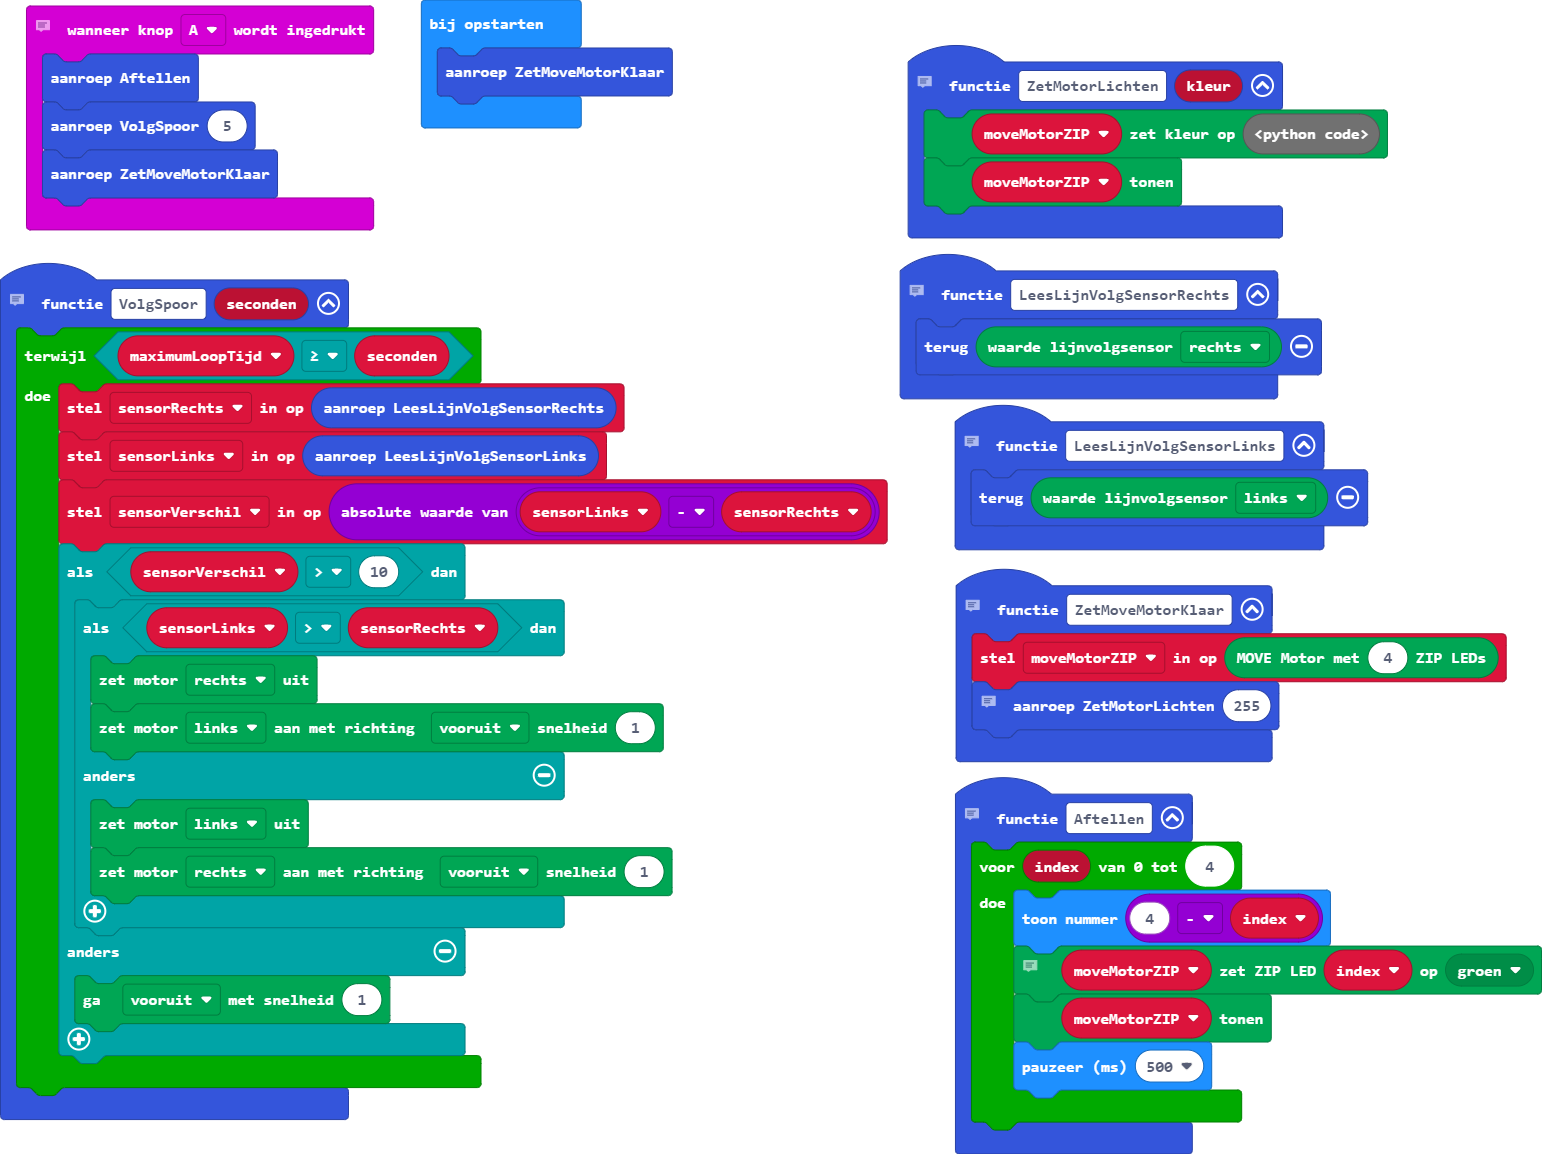
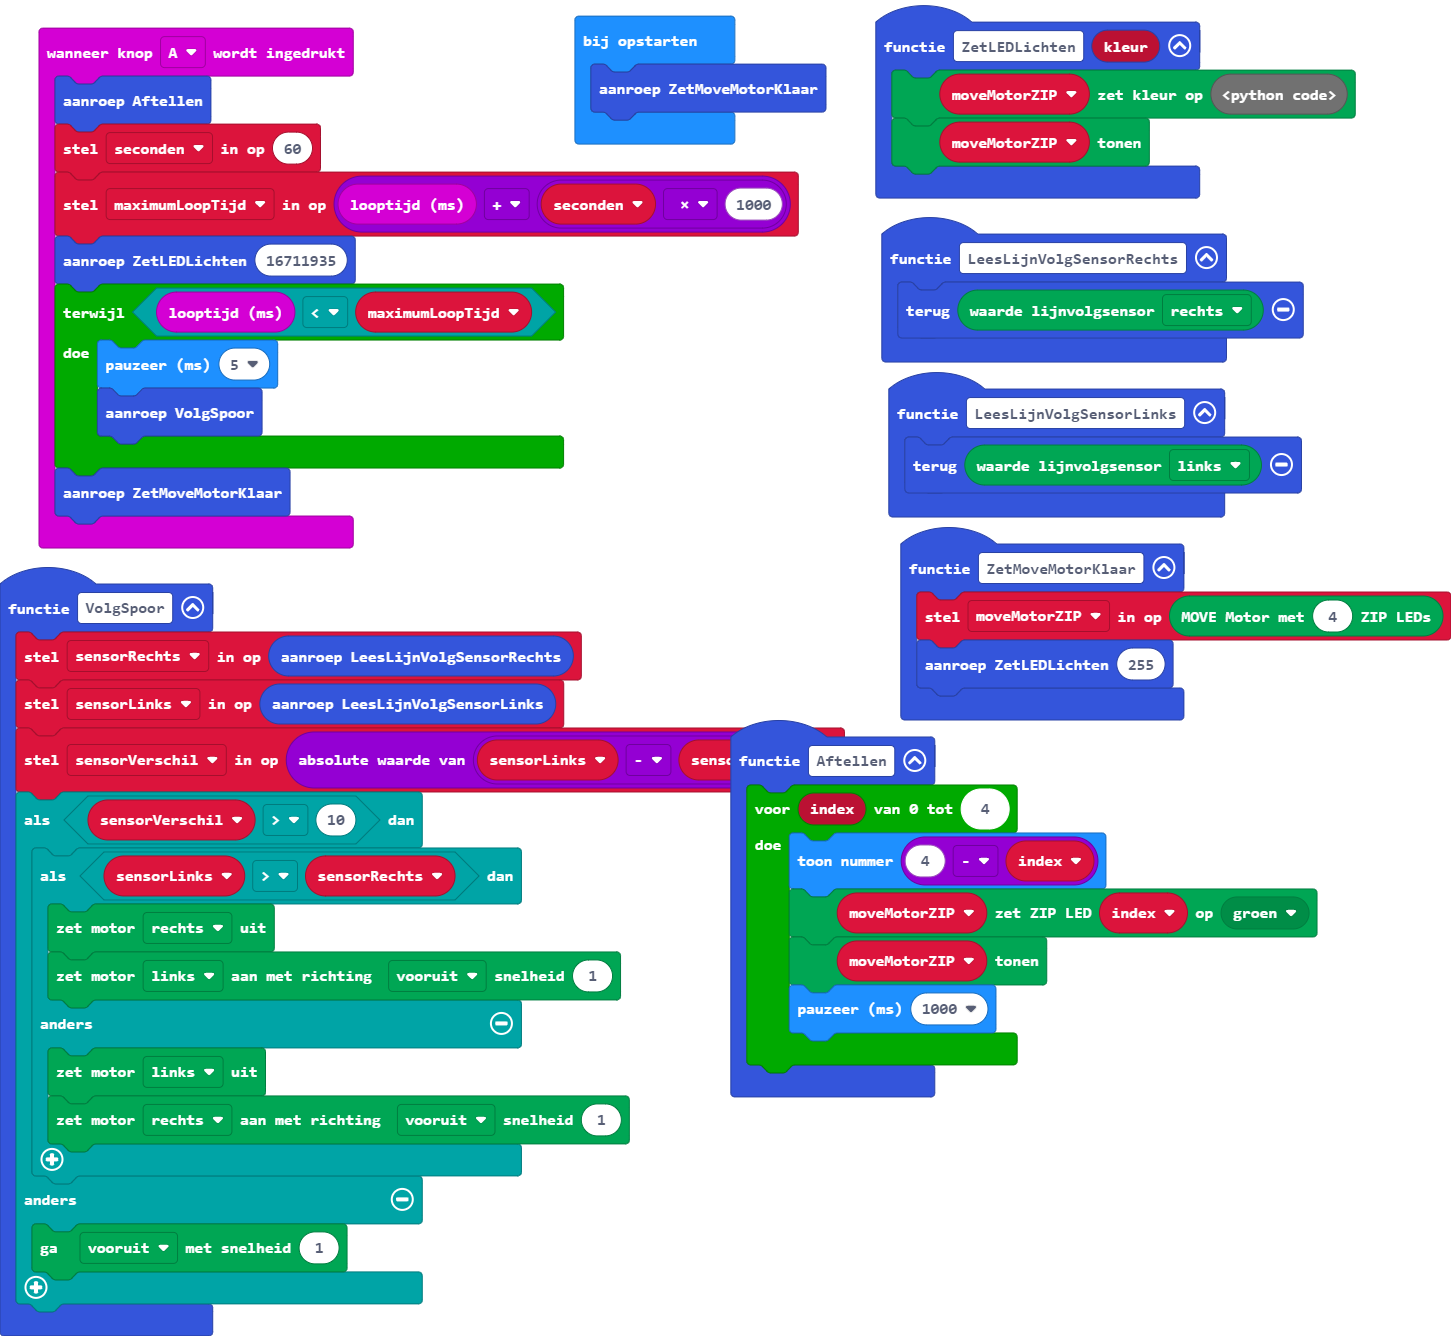
Oefening afgewerkt

diff --git a/main.ts b/main.ts
@@ -1,60 +1,56 @@
-// Tel van 4 tot 0 en verander telkens 1 LED van kleur.
 function Aftellen () {
     for (let index = 0; index <= 4; index++) {
         basic.showNumber(4 - index)
-        // Kitronik_Move_Motor.ZipLedColors.GREEN = 65280
         moveMotorZIP.setZipLedColor(index, Kitronik_Move_Motor.colors(Kitronik_Move_Motor.ZipLedColors.Green))
         moveMotorZIP.show()
-        basic.pause(500)
+        basic.pause(1000)
     }
 }
-// Waneer op knop A gedrukt word tel af en volg het spoor geduurende 10 seconden.
 input.onButtonPressed(Button.A, function () {
     Aftellen()
-    VolgSpoor(5)
+    seconden = 60
+    maximumLoopTijd = input.runningTime() + seconden * 1000
+    ZetLEDLichten(16711935)
+    while (input.runningTime() < maximumLoopTijd) {
+        basic.pause(5)
+        VolgSpoor()
+    }
     ZetMoveMotorKlaar()
 })
-// Lees de waarde van de rechter lijnvolgsensor. Deze kan tussen de 0 en de 1023 liggen.
 function LeesLijnVolgSensorRechts () {
     return Kitronik_Move_Motor.readSensor(Kitronik_Move_Motor.LfSensor.Right)
 }
-// De functie om het spoor te volgen.
-function VolgSpoor (seconden: number) {
-    let maximumLoopTijd = 0
-    while (maximumLoopTijd >= seconden) {
-        sensorRechts = LeesLijnVolgSensorRechts()
-        sensorLinks = LeesLijnVolgSensorLinks()
-        sensorVerschil = Math.abs(sensorLinks - sensorRechts)
-        if (sensorVerschil > 10) {
-            if (sensorLinks > sensorRechts) {
-                Kitronik_Move_Motor.motorOff(Kitronik_Move_Motor.Motors.MotorRight)
-                Kitronik_Move_Motor.motorOn(Kitronik_Move_Motor.Motors.MotorLeft, Kitronik_Move_Motor.MotorDirection.Forward, 1)
-            } else {
-                Kitronik_Move_Motor.motorOff(Kitronik_Move_Motor.Motors.MotorLeft)
-                Kitronik_Move_Motor.motorOn(Kitronik_Move_Motor.Motors.MotorRight, Kitronik_Move_Motor.MotorDirection.Forward, 1)
-            }
+function VolgSpoor () {
+    sensorRechts = LeesLijnVolgSensorRechts()
+    sensorLinks = LeesLijnVolgSensorLinks()
+    sensorVerschil = Math.abs(sensorLinks - sensorRechts)
+    if (sensorVerschil > 10) {
+        if (sensorLinks > sensorRechts) {
+            Kitronik_Move_Motor.motorOff(Kitronik_Move_Motor.Motors.MotorRight)
+            Kitronik_Move_Motor.motorOn(Kitronik_Move_Motor.Motors.MotorLeft, Kitronik_Move_Motor.MotorDirection.Forward, 1)
         } else {
-            Kitronik_Move_Motor.move(Kitronik_Move_Motor.DriveDirections.Forward, 1)
+            Kitronik_Move_Motor.motorOff(Kitronik_Move_Motor.Motors.MotorLeft)
+            Kitronik_Move_Motor.motorOn(Kitronik_Move_Motor.Motors.MotorRight, Kitronik_Move_Motor.MotorDirection.Forward, 1)
         }
+    } else {
+        Kitronik_Move_Motor.move(Kitronik_Move_Motor.DriveDirections.Forward, 1)
     }
 }
-// Zet de :Move motor klaar voor hij de lijn zal volgen.
 function ZetMoveMotorKlaar () {
     moveMotorZIP = Kitronik_Move_Motor.createMoveMotorZIPLED(4)
-    // Kitronik_Move_Motor.ZipLedColors.BLUE = 255
-    ZetMotorLichten(255)
+    ZetLEDLichten(255)
 }
-// Zet de LEDs op een andere kleur. De waarden kan je terugvinden op: https://github.com/KitronikLtd/pxt-kitronik-zip-64/blob/master/zip64.ts.
-function ZetMotorLichten (kleur: number) {
+function ZetLEDLichten (kleur: number) {
     moveMotorZIP.setColor(Kitronik_Move_Motor.colors(kleur))
     moveMotorZIP.show()
 }
-// Lees de waarde van de linker lijnvolgsensor. Deze kan tussen de 0 en de 1023 liggen.
 function LeesLijnVolgSensorLinks () {
     return Kitronik_Move_Motor.readSensor(Kitronik_Move_Motor.LfSensor.Left)
 }
 let sensorVerschil = 0
 let sensorLinks = 0
 let sensorRechts = 0
+let maximumLoopTijd = 0
+let seconden = 0
 let moveMotorZIP: Kitronik_Move_Motor.MoveMotorZIP = null
 ZetMoveMotorKlaar()

diff --git a/main.py b/main.py
@@ -1,66 +1,50 @@
-# Tel van 4 tot 0 en verander telkens 1 LED van kleur.
 def Aftellen():
     for index in range(5):
-        # Kitronik_Move_Motor.ZipLedColors.GREEN = 65280
+        basic.show_number(4 - index)
         moveMotorZIP.set_zip_led_color(index,
             Kitronik_Move_Motor.colors(Kitronik_Move_Motor.ZipLedColors.GREEN))
         moveMotorZIP.show()
         basic.pause(1000)
-# Waneer op knop A gedrukt word tel af en volg het spoor geduurende 10 seconden.
 
 def on_button_pressed_a():
     Aftellen()
-    VolgSpoor(10)
-    ZetMotorKlaar()
+    VolgSpoor(25)
 input.on_button_pressed(Button.A, on_button_pressed_a)
 
-# Zet de :Move motor klaar voor hij de lijn zal volgen.
-def ZetMotorKlaar():
-    global moveMotorZIP
-    moveMotorZIP = Kitronik_Move_Motor.create_move_motor_zipled(4)
-    # Kitronik_Move_Motor.ZipLedColors.BLUE = 255
-    ZetMotorLichten(255)
-    Kitronik_Move_Motor.stop()
-# Bereken het verschil tussen de linkse en rechtse sensor.
-def BerekenSensorVerschil():
-    global sensorRechts, sensorLinks, sensorVerschil
-    sensorRechts = LeesLijnVolgSensorRechts()
-    sensorLinks = LeesLijnVolgSensorLinks()
-    sensorVerschil = abs(sensorRechts - sensorLinks)
-    return sensorVerschil
-# Lees de waarde van de rechter lijnvolgsensor. Deze kan tussen de 0 en de 1023 liggen.
 def LeesLijnVolgSensorRechts():
     return Kitronik_Move_Motor.read_sensor(Kitronik_Move_Motor.LfSensor.RIGHT)
-# De functie om het spoor te volgen.
 def VolgSpoor(seconden: number):
-    global VolgSpoorTijd
-    VolgSpoorTijd = input.running_time() + seconden * 1000
-    while input.running_time() < VolgSpoorTijd:
-        basic.show_number(waardeVolgSpoor)
-        waardeVolgSpoor = BerekenSensorVerschil()
-        if 18 < waardeVolgSpoor and waardeVolgSpoor < 25:
-            Kitronik_Move_Motor.move(Kitronik_Move_Motor.DriveDirections.FORWARD, 5)
-        elif waardeVolgSpoor < 25:
-            Kitronik_Move_Motor.spin(Kitronik_Move_Motor.SpinDirections.LEFT, 5)
-        elif waardeVolgSpoor > 35:
-            Kitronik_Move_Motor.spin(Kitronik_Move_Motor.SpinDirections.RIGHT, 5)
-    Kitronik_Move_Motor.stop()
-# Waneer op knop B gedrukt wordt stop de :Move motor.
-
-def on_button_pressed_b():
-    Kitronik_Move_Motor.stop()
-input.on_button_pressed(Button.B, on_button_pressed_b)
-
-# Zet de LEDs op een andere kleur. De waarden kan je terugvinden op: https://github.com/KitronikLtd/pxt-kitronik-zip-64/blob/master/zip64.ts.
-def ZetMotorLichten(kleur: number):
+    global maximumLoopTijd, sensorRechts, sensorLinks, sensorVerschil
+    maximumLoopTijd = input.running_time() + seconden * 1000
+    while input.running_time() < maximumLoopTijd:
+        sensorRechts = LeesLijnVolgSensorRechts()
+        sensorLinks = LeesLijnVolgSensorLinks()
+        sensorVerschil = abs(sensorLinks - sensorRechts)
+        if sensorVerschil > 10:
+            if sensorLinks > sensorRechts:
+                Kitronik_Move_Motor.motor_off(Kitronik_Move_Motor.Motors.MOTOR_RIGHT)
+                Kitronik_Move_Motor.motor_on(Kitronik_Move_Motor.Motors.MOTOR_LEFT,
+                    Kitronik_Move_Motor.MotorDirection.FORWARD,
+                    1)
+            else:
+                Kitronik_Move_Motor.motor_off(Kitronik_Move_Motor.Motors.MOTOR_LEFT)
+                Kitronik_Move_Motor.motor_on(Kitronik_Move_Motor.Motors.MOTOR_RIGHT,
+                    Kitronik_Move_Motor.MotorDirection.FORWARD,
+                    1)
+        else:
+            Kitronik_Move_Motor.move(Kitronik_Move_Motor.DriveDirections.FORWARD, 1)
+def ZetMoveMotorKlaar():
+    global moveMotorZIP
+    moveMotorZIP = Kitronik_Move_Motor.create_move_motor_zipled(4)
+    ZetLEDLichten(255)
+def ZetLEDLichten(kleur: number):
     moveMotorZIP.set_color(Kitronik_Move_Motor.colors(kleur))
     moveMotorZIP.show()
-# Lees de waarde van de linker lijnvolgsensor. Deze kan tussen de 0 en de 1023 liggen.
 def LeesLijnVolgSensorLinks():
     return Kitronik_Move_Motor.read_sensor(Kitronik_Move_Motor.LfSensor.LEFT)
-VolgSpoorTijd = 0
 sensorVerschil = 0
 sensorLinks = 0
 sensorRechts = 0
+maximumLoopTijd = 0
 moveMotorZIP: Kitronik_Move_Motor.MoveMotorZIP = None
-ZetMotorKlaar()
+ZetMoveMotorKlaar()
